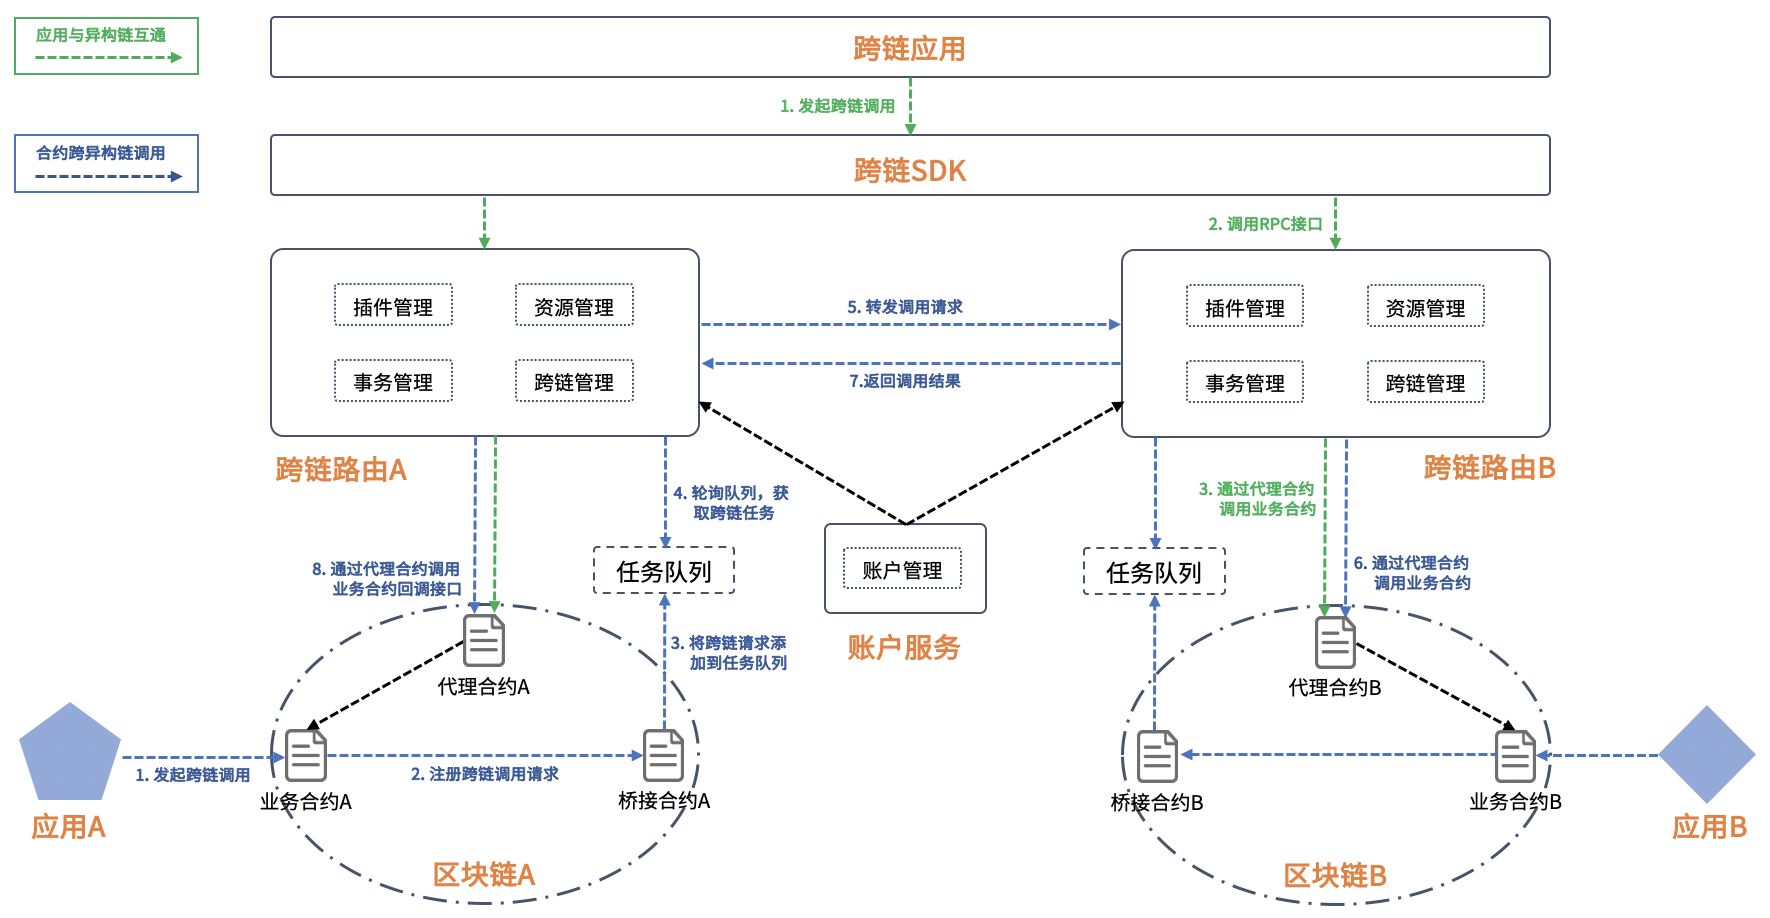
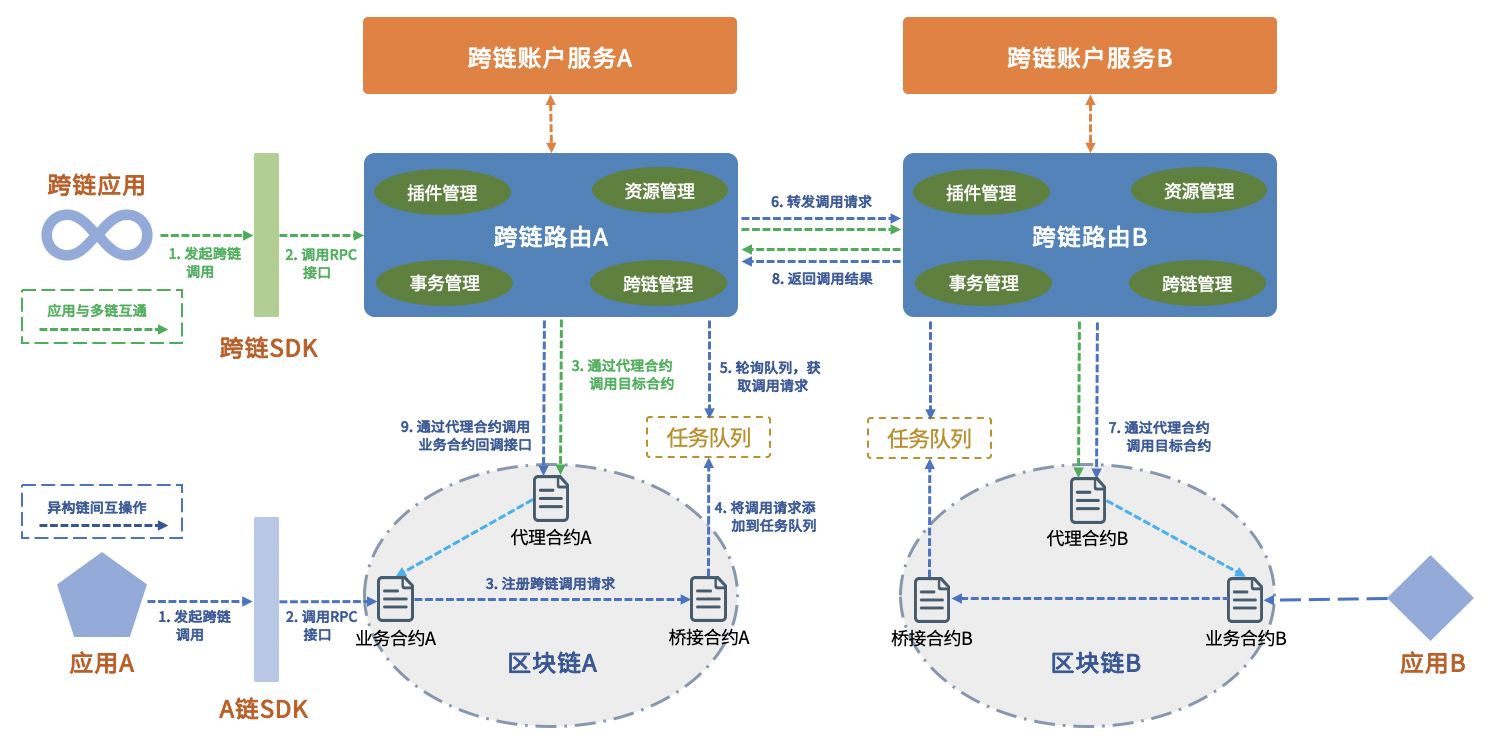
<project>(readme): update architecture picture and introduction

diff --git a/README.md b/README.md
@@ -3,15 +3,43 @@
 [![CodeFactor](https://www.codefactor.io/repository/github/webankblockchain/wecross/badge)](https://www.codefactor.io/repository/github/webankblockchain/wecross) [![Build Status](https://travis-ci.org/WebankBlockchain/WeCross.svg?branch=dev)](https://travis-ci.org/WebankBlockchain/WeCross) [![Latest release](https://img.shields.io/github/release/WebankBlockchain/WeCross.svg)](https://github.com/WebankBlockchain/WeCross/releases/latest)
  [![License](https://img.shields.io/github/license/WebankBlockchain/WeCross)](https://www.apache.org/licenses/LICENSE-2.0) [![Language](https://img.shields.io/badge/Language-Java-blue.svg)](https://www.java.com)
 
-WeCross是由微众银行自主研发并完全开源的区块链跨链协作平台，致力于促进跨行业、机构和地域的跨区块链信任传递和商业合作。
+## WeCross简介
+
+WeCross是由微众银行自主研发并完全开源的区块链跨链协作平台，致力于促进跨行业、机构和地域的跨区块链信任传递和商业合作。WeCross支持应用与多链互操作、同/异构链间互操作等多维跨链交互，实现了:
+
+- **便捷式跨链管理**
+
+    WeCross为方便开发、维护和管理跨链应用，配套多种跨链工具，包括命令行[终端控制台](https://github.com/WeBankBlockchain/WeCross-Console)和**可视化**[网页管理平台](https://github.com/WeBankBlockchain/WeCross-WebApp)。
+
+- **插件式跨链接入**
+
+    WeCross只需基于[Stub接口](https://wecross.readthedocs.io/zh_CN/latest/docs/dev/stub.html)针对不同的链开发适配器，就能以插件化的方式实现跨链接入。目前适配的区块链包括[FISCO BCOS 2.0](https://github.com/WeBankFinTech/WeCross-BCOS-Stub)和[Hyperledger Fabric 1.4](https://github.com/WeBankBlockchain/WeCross-Fabric1-Stub)。
+
+- **统一跨链身份**
+
+    WeCross基于[跨链账户服务](https://github.com/WeBankBlockchain/WeCross-Account-Manager)管理账户的生命周期。每个跨链账户对应多个链账户，实现跨链身份的统一。
+
+- **统一资源范式**
+
+    WeCross对各个链的资源包括合约、交易以及区块等进行抽象和封装，并基于通用跨链接口和统一的寻址方式实现对不同资源的访问和调用。
+
+- **跨链事务保障**
+
+    WeCross基于[两阶段提交](https://wecross.readthedocs.io/zh_CN/latest/docs/routine/xa.html)实现多链的事务写操作。回滚时，事务中的操作都会被重置，最终恢复到事务前的状态。
+
+- **链间资产原子交换**
+
+    WeCross基于[哈希时间锁合约](https://wecross.readthedocs.io/zh_CN/latest/docs/routine/htlc.html)实现异构链间资产原子交换，无需更改原链上的资产模型和资产合约，通用性较强。
+
+- **合约跨链调用**
+
+    WeCross不仅支持跨链应用对异构多链发起调用，而且还支持由合约发起的对其它链合约的异步[跨链调用](https://wecross.readthedocs.io/zh_CN/latest/docs/dev/interchain.html)。
+
+了解更多技术特性，请下载阅读[WeCross白皮书](https://mp.weixin.qq.com/s/w0APEAonFXbOoinMJipPAA)。
 
 ## WeCross架构
 
 ![](./docs/images/architecture.png)
-
-WeCross支持应用与异构链交互、同/异构链间交互等多维度跨链互操作，实现了**可视化跨链管理**、**可插拔跨链接入**、**统一跨链身份**、**统一资源范式**、**跨链事务保障**、**链间资产原子交换**、**合约跨链调用**等功能。
-
-了解更多技术特性，请下载阅读[WeCross白皮书](https://mp.weixin.qq.com/s/w0APEAonFXbOoinMJipPAA)。
 
 
 ## 快速开始
@@ -41,3 +69,7 @@ WeCross支持应用与异构链交互、同/异构链间交互等多维度跨链
 ## 社区
 
 联系我们：wecross@webank.com
+
+## License
+
+WeCross的开源协议为Apache License 2.0，详情参考[LICENSE](./LICENSE)。
